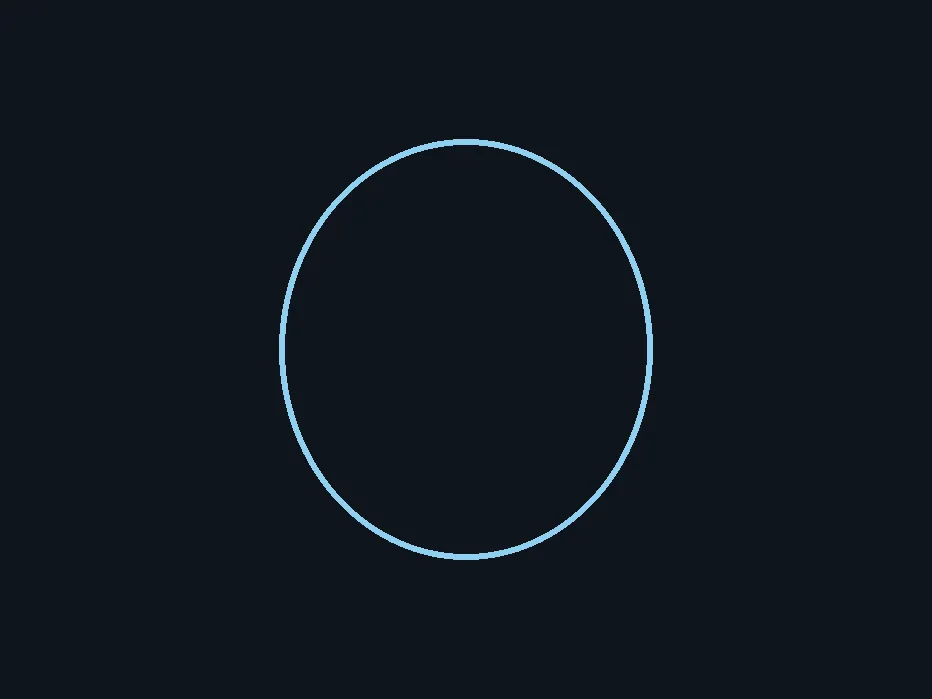
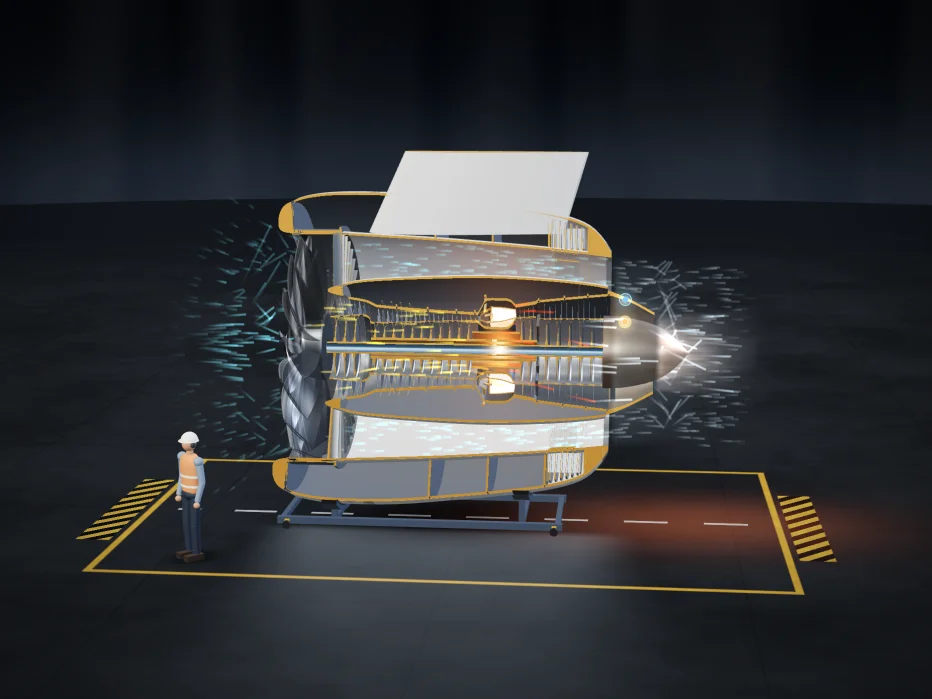
feat(ge9x-turbofan): add the cover and the social image

diff --git a/scripts/cards/ge9x-turbofan.html b/scripts/cards/ge9x-turbofan.html
@@ -86,7 +86,7 @@
 
       h1 {
         margin: 0;
-        font-size: 56px;
+        font-size: 50px;
         font-weight: 700;
         line-height: 1.02;
         letter-spacing: -0.035em;
@@ -95,14 +95,14 @@
       .subtitle {
         margin: 26px 0 0;
         color: var(--prose);
-        font-size: 28px;
+        font-size: 25px;
         line-height: 1.4;
       }
 
       .topics {
         display: flex;
         gap: 6px;
-        margin: 40px 0 0;
+        margin: 30px 0 0;
         padding: 0;
         list-style: none;
       }
@@ -139,8 +139,8 @@
       </p>
       <h1>How the biggest airliner engine makes its thrust</h1>
       <p class="subtitle">
-        Your tongue finds sweet and a little sour, and nerves feel the cold. The cherry itself is a
-        smell that reaches your nose from inside your mouth.
+        Follow the air through the GE9X. The giant fan does most of the pushing. The fire only heats
+        the air that spins the turbines.
       </p>
       <ol class="topics">
         <li style="--tone: var(--suck)">Suck</li>
